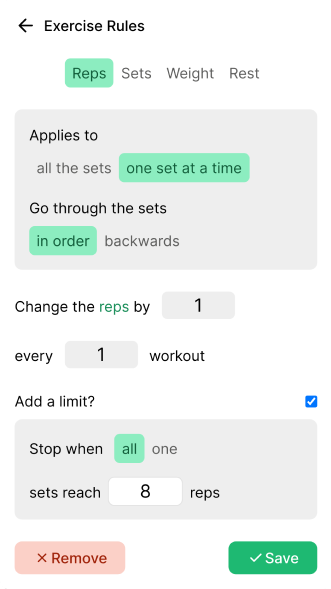
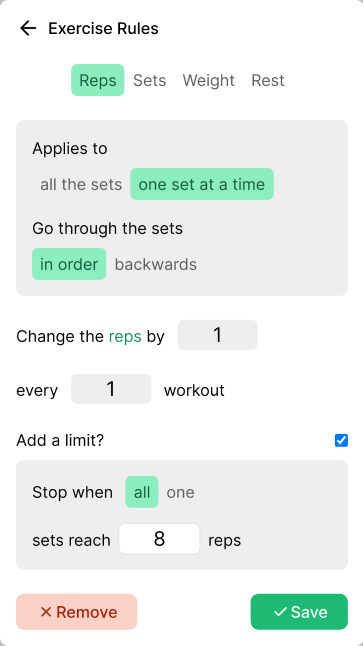
feat: improve quality of remaining images

diff --git a/pages/index.vue b/pages/index.vue
@@ -40,7 +40,7 @@
       <div class="relative w-full sm:w-1/2">
         <div class="overflow-hidden">
           <div
-            class="z-0 opacity-60 motion-safe:animate-spin-slow text-green-dark"
+            class="z-0 opacity-50 animate-spin-slow text-green-dark"
             v-html="require('~/assets/images/sports_icons.svg?include')"
           />
         </div>
@@ -110,7 +110,7 @@
         </div>
 
         <div
-          class="z-0 opacity-60 w-96 row-start-1 col-start-1 transform scale-75 text-green-dark sm:w-2/3"
+          class="z-0 opacity-50 w-96 row-start-1 col-start-1 transform scale-75 text-green-dark sm:w-2/3"
           v-html="require('~/assets/images/sports_icons.svg?include')"
           />
       </div>
@@ -125,22 +125,33 @@
     <section class="relative flex flex-col items-center justify-center max-w-6xl px-6 pt-10 mx-auto -mt-10 overflow-x-hidden sm:items-start sm:overflow-visible gap-8 sm:flex-row-reverse">
       <div class="relative z-0 flex justify-center max-w-sm sm:w-1/2">
         <div
-          class="absolute top-0 left-0 z-0 w-full opacity-60 -translate-y-24 transform scale-50 translate-x-48 text-green-dark"
+          class="absolute top-0 left-0 z-0 w-full opacity-50 -translate-y-24 transform scale-50 translate-x-48 text-green-dark"
           v-html="require('~/assets/images/sports_icons.svg?include')"
         />
 
         <div
-          class="absolute bottom-0 left-0 z-0 w-full opacity-60 translate-y-20 -translate-x-32 transform scale-75 text-green-dark"
+          class="absolute bottom-0 left-0 z-0 w-full opacity-50 translate-y-20 -translate-x-32 transform scale-75 text-green-dark"
           v-html="require('~/assets/images/sports_icons.svg?include')"
         />
 
-        <img
-          src="/images/exercise_rules.png"
-          width="331"
-          height="589"
-          class="relative z-10 w-full shadow-xl rounded-2xl"
-          loading="lazy"
-        />
+        <picture>
+          <source
+            srcset="
+              /images/exercise_rules.png?webp,
+              /images/exercise_rules@2x.png?webp 2x
+            "
+            type="image/webp"
+          />
+
+          <img
+            src="/images/exercise_rules.png"
+            srcset="/images/exercise_rules@2x.png 2x"
+            width="363"
+            height="646"
+            class="relative z-10 w-full shadow-xl rounded-2xl"
+            loading="lazy"
+          />
+        </picture>
       </div>
 
       <div class="relative z-10 space-y-4 sm:w-1/2">
@@ -153,11 +164,11 @@
     <section class="flex flex-col items-center justify-center max-w-6xl px-6 pt-12 mx-auto -mt-12 overflow-x-hidden sm:overflow-visible sm:flex-row gap-4 sm:gap-8">
       <div class="relative z-0">
         <div
-          class="absolute top-0 left-0 z-0 w-full opacity-60 origin-top-left -translate-x-12 -translate-y-12 transform scale-50 text-green-dark"
+          class="absolute top-0 left-0 z-0 w-full opacity-50 origin-top-left -translate-x-12 -translate-y-12 transform scale-50 text-green-dark"
           v-html="require('/assets/images/sports_icons.svg?include')"
         />
         <div
-          class="absolute bottom-0 left-0 z-0 w-full opacity-60 origin-bottom-right transform scale-25 translate-x-8 translate-y-4 text-green-dark"
+          class="absolute bottom-0 left-0 z-0 w-full opacity-50 origin-bottom-right transform scale-25 translate-x-8 translate-y-4 text-green-dark"
           v-html="require('/assets/images/sports_icons.svg?include')"
         />
 
@@ -191,7 +202,7 @@
     <section class="flex flex-col items-center justify-center max-w-6xl px-6 mx-auto gap-4 sm:gap-8 sm:flex-row-reverse">
       <div class="relative z-0">
         <div
-          class="absolute top-0 left-0 w-full opacity-60 transform scale-75 text-green-dark"
+          class="absolute top-0 left-0 w-full opacity-50 transform scale-75 text-green-dark"
           v-html="require('/assets/images/sports_icons.svg?include')"
         />
 
@@ -210,7 +221,7 @@
               srcset="/images/perfect_workout@2x.png 2x"
               width="363"
               height="360"
-              class="relative z-10"
+              class="relative z-10 drop-shadow-lg"
               loading="lazy"
             />
           </picture>
@@ -297,3 +308,9 @@
 <script>
 export default {}
 </script>
+
+<style scoped>
+.drop-shadow-lg {
+  filter: drop-shadow(0 4px 6px rgba(0, 0, 0, 0.05));
+}
+</style>
